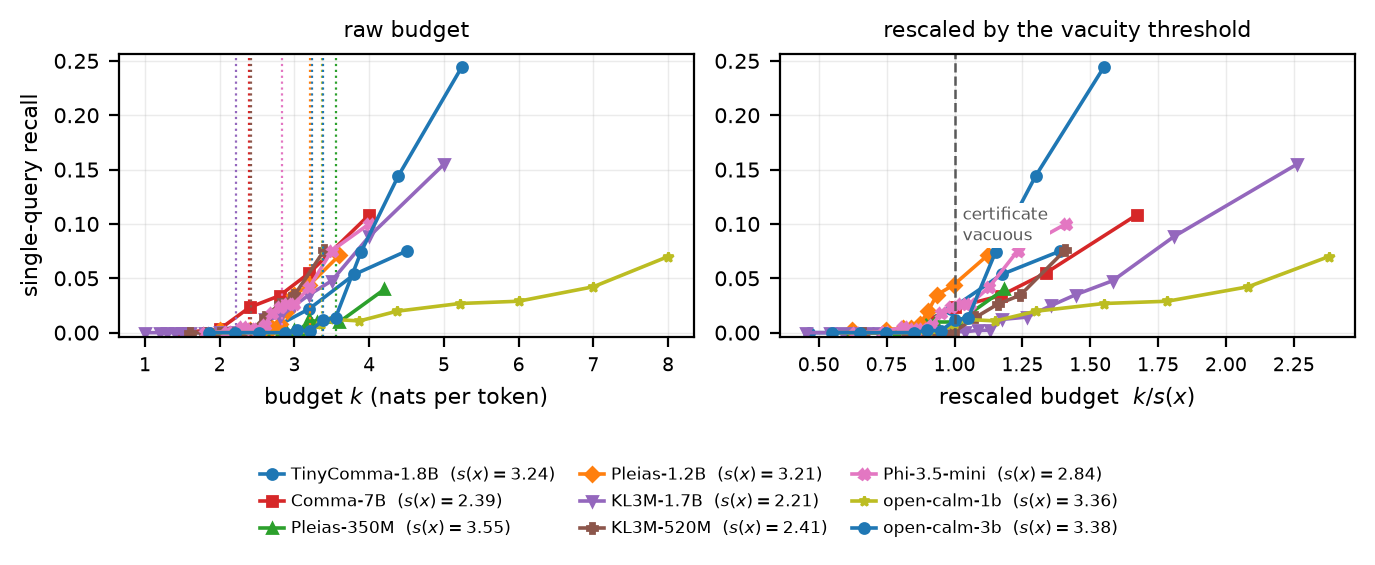
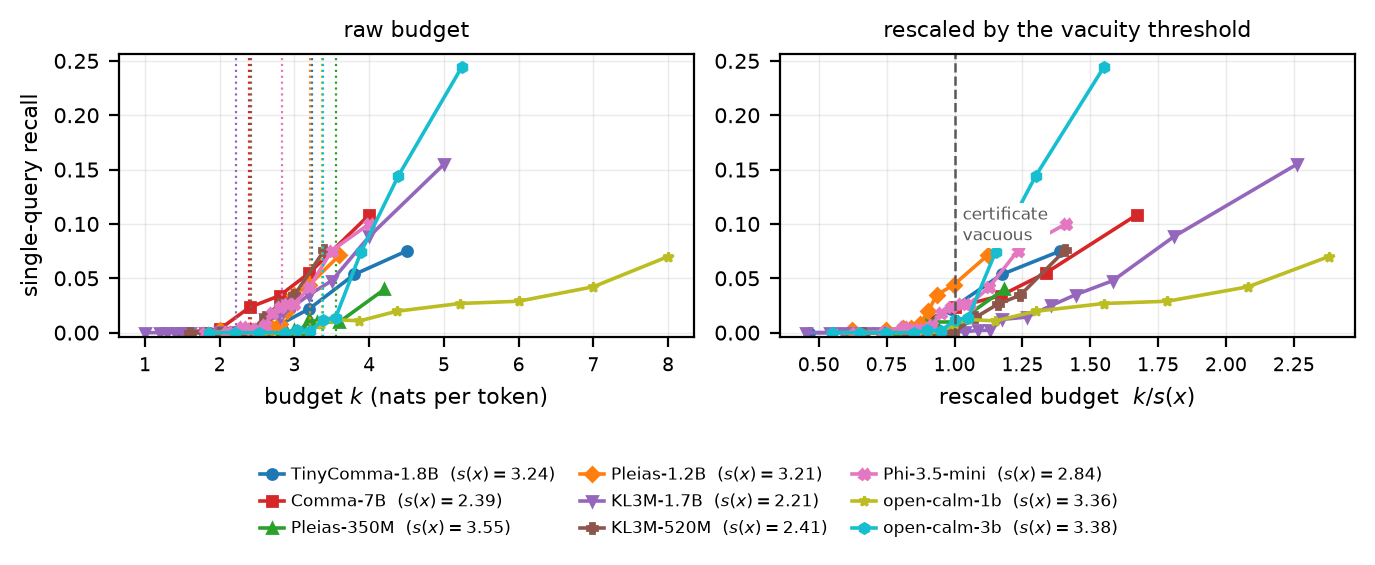
read-through 4, fifth batch: two of nine curves in the collapse figure were the same blue circle
onset_collapse styles its series with list[i % len(list)] over an eight-colour, eight-marker list,
and results/onset_pairs.tsv holds nine pairs -- so the ninth wrapped to index 0 and TinyComma-1.8B
and open-calm-3b came out identical in both panels. The figure's own comment said the pair set is
'data, not code, so a new admissible pair appears in the figure without editing it', which is
exactly how it happened. seed_effect drew five series from four markers the same way.

Only visible by looking at the rendered figure: no grep sees it, tectonic exits 0, and the legend
prints nine entries whatever the curves do. distinct_styles(n) now refuses rather than wrapping,
and tests/test_figure_styles.py ties the palette's capacity to the pair count in the manifest, so
a tenth pair fails a test instead of colliding in a figure nobody re-renders.

diff --git a/figures/make_figures_v4.py b/figures/make_figures_v4.py
@@ -26,6 +26,29 @@ LABEL = {"commonpile": "Common Pile", "commoncorpus": "Common Corpus", "kl3m": "
 COLOR = {"commonpile": "C0", "commoncorpus": "C2", "kl3m": "C3"}
 
 
+def distinct_styles(n):
+    """n (colour, marker) pairs, every one distinct, or an exception.
+
+    Both figures that style a data-driven list of series used `list[i % len(list)]`, which is the
+    one thing you must not do when the list is data: onset_collapse drew NINE pairs from an
+    eight-colour and eight-marker list, so the ninth wrapped to index 0 and TinyComma-1.8B and
+    open-calm-3b came out as the same blue circle -- two indistinguishable curves in both panels
+    of an appendix figure, invisible to every grep and to the compiler (found 2026-09-17 by
+    looking at the rendered figure). seed_effect drew five series from four markers. The comment
+    on the first said the pair set is "data, not code, so a new admissible pair appears in the
+    figure without editing it", which is exactly how it happened.
+
+    Wrapping silently is the defect, so this raises instead."""
+    cols = ["C0", "C3", "C2", "C1", "C4", "C5", "C6", "C8", "C9", "C7"]
+    mks = ["o", "s", "^", "D", "v", "P", "X", "*", "h", "<"]
+    if n > len(cols):
+        raise ValueError(f"{n} series but only {len(cols)} distinct styles; extend the lists "
+                         f"rather than letting them wrap")
+    out = list(zip(cols[:n], mks[:n]))
+    assert len(set(out)) == n, out
+    return out
+
+
 def _save(fig, name):
     for ext in ("pdf", "png"):
         fig.savefig(OUT / f"{name}.{ext}", bbox_inches="tight", dpi=200)
@@ -152,10 +175,8 @@ def onset_collapse():
     # plan v5: the pair set is data, not code -- same manifest analysis/onset.py reads, so a new
     # admissible pair appears in the figure without editing it.
     _pairs = load_pairs(str(REPO / "results" / "onset_pairs.tsv"))
-    _cols = ["C0", "C3", "C2", "C1", "C4", "C5", "C6", "C8"]
-    _mks = ["o", "s", "^", "D", "v", "P", "X", "*"]
-    P = [(n, c, b, _cols[i % len(_cols)], _mks[i % len(_mks)])
-         for i, (n, c, b) in enumerate(_pairs)]
+    _st_ = distinct_styles(len(_pairs))
+    P = [(n, c, b, _st_[i][0], _st_[i][1]) for i, (n, c, b) in enumerate(_pairs)]
     fig, (ax, ax2) = plt.subplots(1, 2, figsize=(6.9, 2.75))
     for name, comp, per, col, mk in P:
         p_ = REPO / comp
@@ -223,7 +244,8 @@ def seed_effect():
     # would stack at one x and be labelled "seed varied", which is false. They belong on
     # units_law(), which plots against s(x) -- the axis they actually move.
     rows = [r for r in rows if not r["pair"].endswith(" tau")]
-    markers = ["o", "s", "^", "D"]
+    # one marker per series, never wrapped: five series were drawn from four markers
+    markers = [m for _, m in distinct_styles(10)]
     labelled = False   # the first pair in sort order may have a single arm and be skipped below,
                        # so the legend entry has to hang off the first pair actually drawn
     for i, pair in enumerate(sorted({r["pair"] for r in rows})):

diff --git a/tests/test_figure_styles.py b/tests/test_figure_styles.py
@@ -1,0 +1,57 @@
+"""No two series in a figure may share a colour AND a marker.
+
+Found 2026-09-17 by looking at the rendered appendix figure, which is the only way this is
+findable: `onset_collapse` styled its series with `list[i % len(list)]` over an eight-colour,
+eight-marker list, and results/onset_pairs.tsv now holds NINE pairs. The ninth wrapped to index 0,
+so TinyComma-1.8B and open-calm-3b were the same blue circle -- two indistinguishable curves in
+both panels. The figure's own comment said the pair set is "data, not code, so a new admissible
+pair appears in the figure without editing it", which is exactly the mechanism. `seed_effect` drew
+five series from four markers the same way.
+
+The style capacity is now tied to the data here, so adding a tenth pair fails this test instead of
+silently colliding in a figure nobody re-renders.
+"""
+import csv
+import os
+import sys
+
+sys.path.insert(0, os.path.join(os.path.dirname(os.path.dirname(os.path.abspath(__file__))),
+                                "figures"))
+from make_figures_v4 import distinct_styles  # noqa: E402
+
+ROOT = os.path.dirname(os.path.dirname(os.path.abspath(__file__)))
+
+
+def test_styles_are_distinct_and_never_wrap():
+    for n in range(1, 11):
+        st = distinct_styles(n)
+        assert len(st) == n and len(set(st)) == n, (n, st)
+        assert len({c for c, _ in st}) == n, ("colours repeat", n, st)
+        assert len({m for _, m in st}) == n, ("markers repeat", n, st)
+
+
+def test_asking_for_more_than_there_are_raises_rather_than_wrapping():
+    """The defect was silent reuse. Refusing is the whole point."""
+    try:
+        distinct_styles(11)
+    except ValueError as e:
+        assert "wrap" in str(e), e
+    else:
+        raise AssertionError("distinct_styles(11) must refuse, not wrap")
+
+
+def test_the_collapse_figure_has_a_style_for_every_pair_it_draws():
+    path = os.path.join(ROOT, "results", "onset_pairs.tsv")
+    pairs = [l for l in open(path, encoding="utf-8").read().splitlines() if l.strip()]
+    assert pairs, path
+    distinct_styles(len(pairs))          # raises if a pair was added past the palette
+    assert len(pairs) == 9, (len(pairs), "the pair count moved; check the figure still reads")
+
+
+def test_the_seed_effect_figure_has_a_marker_for_every_series_it_draws():
+    path = os.path.join(ROOT, "results", "seed_effect.csv")
+    rows = list(csv.DictReader(open(path, encoding="utf-8")))
+    drawn = [p for p in {r["pair"] for r in rows}
+             if len([r for r in rows if r["pair"] == p]) >= 2]
+    assert drawn, path
+    distinct_styles(len(drawn))
